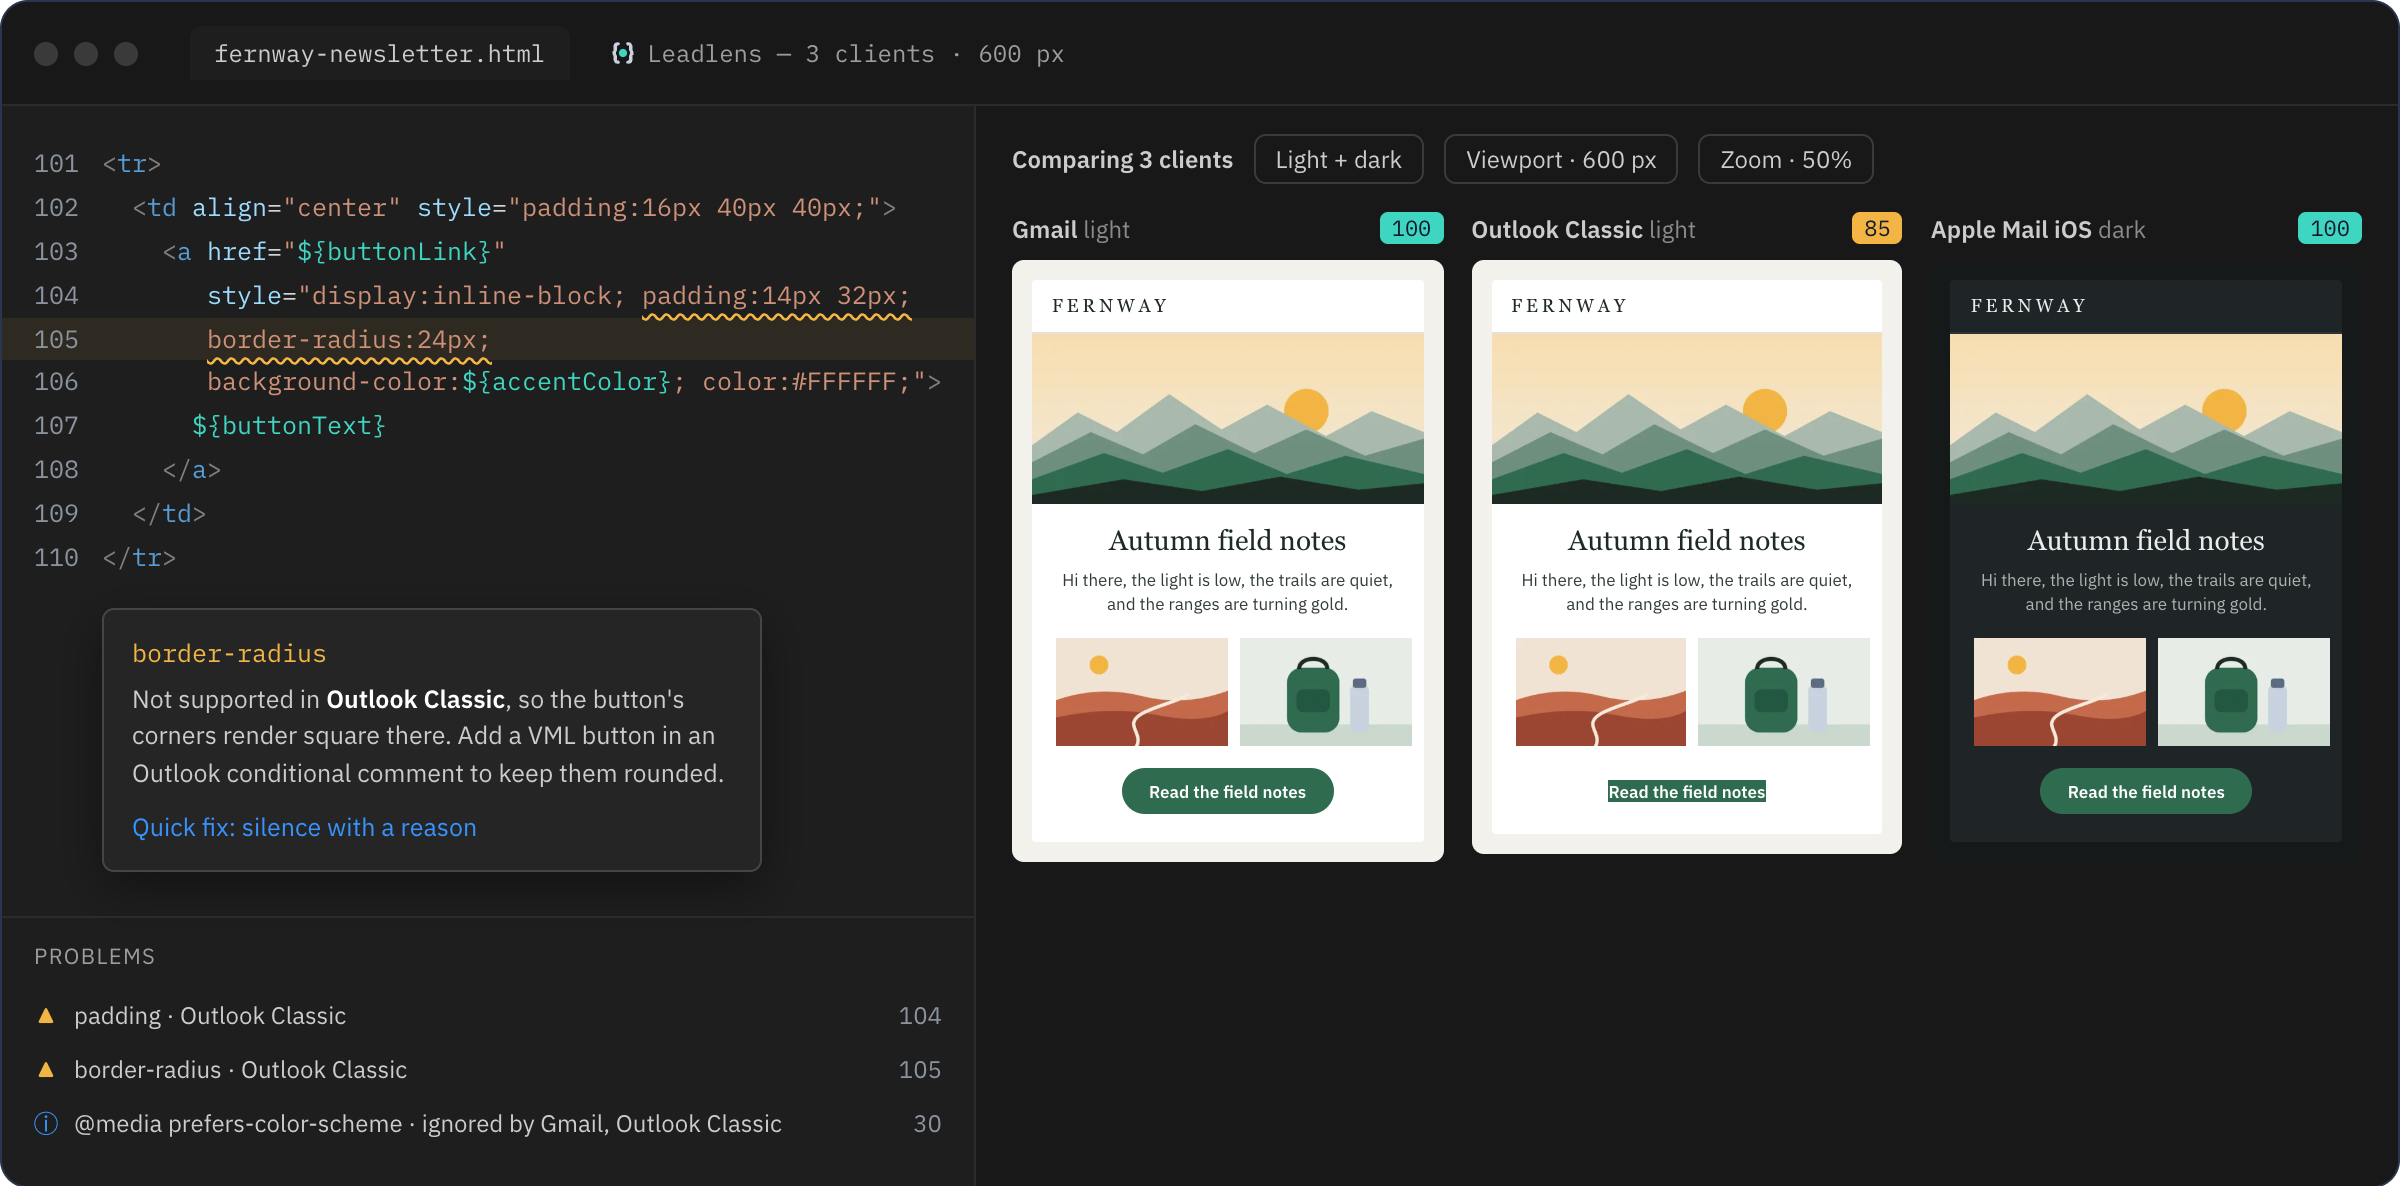
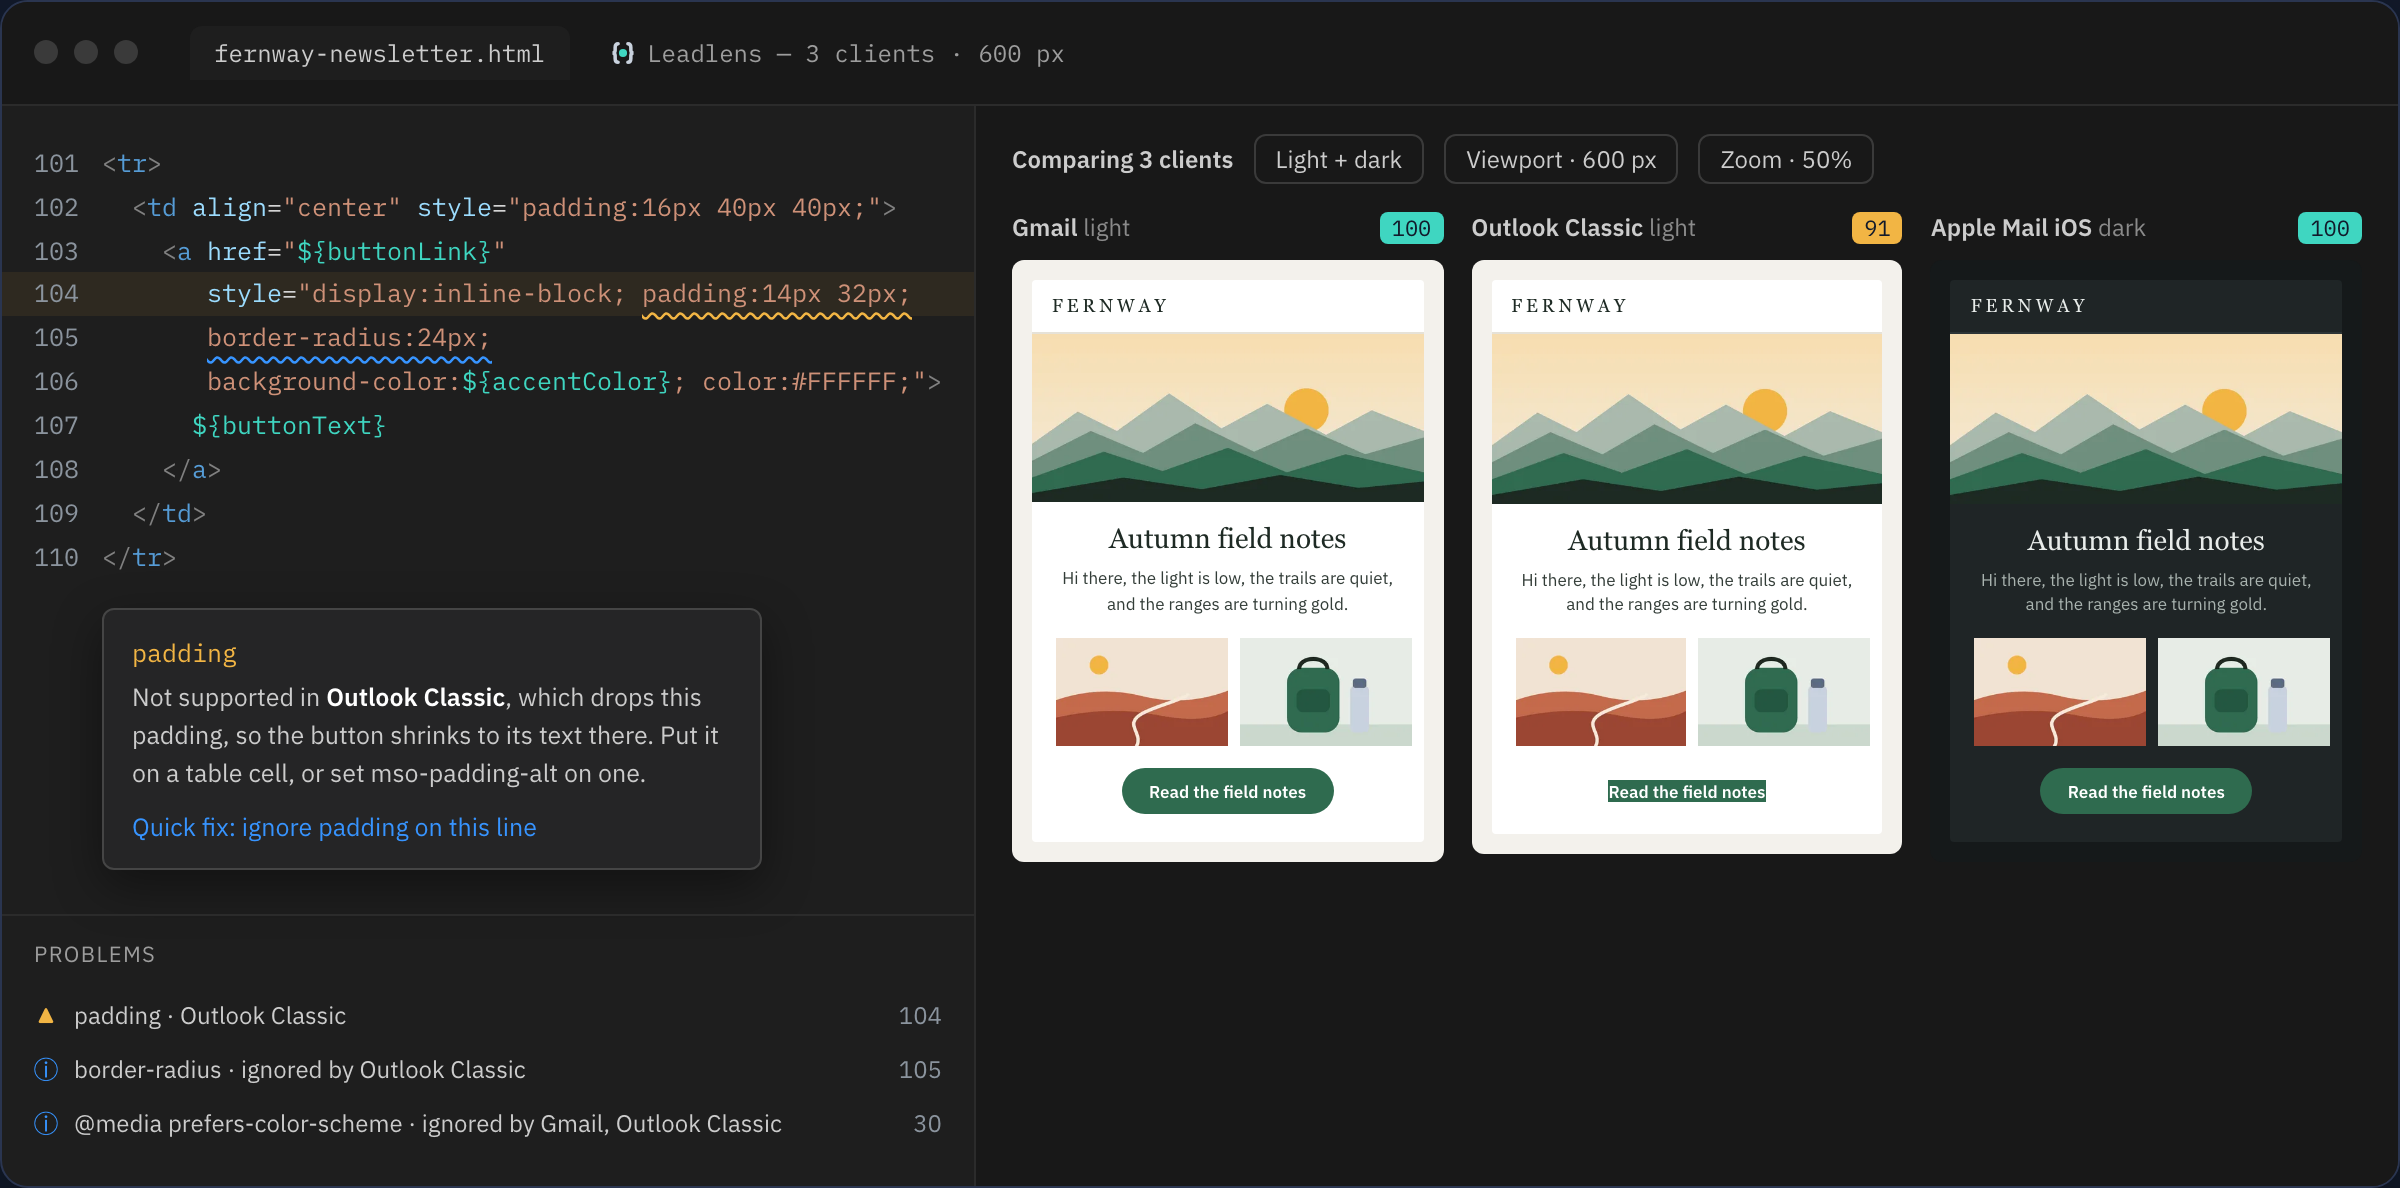
Lead the website and docs with Marketplace installation
The website's Install buttons and links go to the Visual Studio
Marketplace, with Open VSX and the VSIX download beside them. The
install steps, the update FAQ, a new FAQ for Cursor, VSCodium and
Windsurf, the changelog page, Getting started and Privacy and security
describe installing from the registries and automatic updates. The
structured data gains the Marketplace installUrl.

Engine 0.16.4 and later report an uncovered border-radius in Outlook
Classic as info and its dropped button padding as the warning, so the
product illustration, the README's header image and the demo GIF now
show padding as the problem, and the illustration's Outlook Classic
score is 91.

The website builds on Node 24: Astro 7.4 needs Node 22.23.4 or later,
newer than the runner's, so the Site workflow installs Node 24 and
`engines` asks Vercel for the same.

diff --git a/site/src/styles/site.css b/site/src/styles/site.css
@@ -420,6 +420,16 @@ code {
   color: var(--faint-dark);
 }
 
+.hero-alt {
+  margin-top: -6px;
+}
+
+.hero-note a {
+  color: inherit;
+  text-decoration: underline;
+  text-underline-offset: 2px;
+}
+
 @media (max-width: 560px) {
   .hero-copy {
     align-items: stretch;
@@ -530,6 +540,11 @@ code {
 
 .squiggle {
   text-decoration: underline wavy var(--warn);
+  text-underline-offset: 4px;
+}
+
+.squiggle-info {
+  text-decoration: underline wavy #3794ff;
   text-underline-offset: 4px;
 }
 
@@ -1476,6 +1491,12 @@ code {
   text-decoration: none;
   color: var(--text);
   font-size: 14px;
+}
+
+.pill-links {
+  display: flex;
+  flex-wrap: wrap;
+  gap: 8px;
 }
 
 .pill-link::before {

diff --git a/README.md b/README.md
@@ -7,7 +7,7 @@
 [![Emailens engine](https://img.shields.io/github/package-json/dependency-version/harrison-jennings/leadlens/@emailens/engine?label=emailens%20engine&labelColor=121A2B&color=0E8F80)](https://github.com/emailens/engine)
 [![Website](https://img.shields.io/badge/website-leadlens.harrisonjennings.au-0E8F80?labelColor=121A2B)](https://leadlens.harrisonjennings.au)
 
-![Leadlens in VS Code: a Marketo template with a border-radius warning for Outlook Classic and its explanation, beside the email previewed in Gmail, Outlook Classic with the button reduced to highlighted text, and Apple Mail iOS in dark mode](https://raw.githubusercontent.com/harrison-jennings/leadlens/main/docs/brand/leadlens-product.png)
+![Leadlens in VS Code: a Marketo template with a padding warning for Outlook Classic and its explanation, beside the email previewed in Gmail, Outlook Classic with the button reduced to highlighted text, and Apple Mail iOS in dark mode](https://raw.githubusercontent.com/harrison-jennings/leadlens/main/docs/brand/leadlens-product.png)
 
 Leadlens shows how your email will look across 21 email clients as you type, flags what will break before it ships, and understands Marketo Email Editor 2.0, including variables, modules, editable regions and tokens. You get answers about your actual template, not false alarms about Marketo syntax.
 
@@ -16,7 +16,7 @@ Leadlens shows how your email will look across 21 email clients as you type, fla
 - **Linting where you write**: problems appear in the editor, with explanations on hover and one-click fixes.
 - **Private by default**: everything runs locally, and remote images stay off until you allow them.
 
-![A Marketo template in VS Code with the Leadlens preview beside it. Typing border-radius into the call-to-action button rounds it in the Gmail preview, and Leadlens underlines it at once. The hover explains that Outlook Classic drops border-radius; switching the preview to Outlook Classic shows the button reduced to highlighted text, and the Quick Fix menu offers a VML fix for rounded buttons in Outlook](https://raw.githubusercontent.com/harrison-jennings/leadlens/main/docs/brand/leadlens-demo.gif)
+![A Marketo template in VS Code with the Leadlens preview beside it. Typing padding into the call-to-action button turns it from highlighted text into a full button in the Gmail preview, and Leadlens underlines it at once. The hover explains that Outlook Classic doesn't support the padding; switching the preview to Outlook Classic shows the button reduced to highlighted text again, and the Quick Fix menu offers a fix for button padding in Outlook](https://raw.githubusercontent.com/harrison-jennings/leadlens/main/docs/brand/leadlens-demo.gif)
 
 ## Install
 

diff --git a/docs/getting-started.md b/docs/getting-started.md
@@ -9,21 +9,31 @@ Install Leadlens, open your first preview and read your first findings.
 
 ## Install
 
-Leadlens is distributed as a VSIX package from the project's GitHub releases.
+Install Leadlens from the [Visual Studio Marketplace](https://marketplace.visualstudio.com/items?itemName=leadlens.leadlens): open the Extensions view in VS Code, search for **Leadlens** and choose **Install**. From a terminal:
+
+```sh
+code --install-extension leadlens.leadlens
+```
+
+Updates install automatically, each with the newest compatibility data from the Emailens engine.
+
+### Cursor, VSCodium and Windsurf
+
+These editors install extensions from [Open VSX](https://open-vsx.org/extension/leadlens/leadlens). Search for **Leadlens** in their Extensions view in the same way.
+
+### From a file
+
+To install without either registry, for example on a computer that can't reach them:
 
 1. Download `leadlens.vsix` from the [latest release](https://github.com/harrison-jennings/leadlens/releases/latest).
 2. In VS Code, open the Extensions view, choose **⋯ → Install from VSIX…** and select the file.
 3. Reload the window when prompted.
 
-From a terminal:
+From a terminal, run `code --install-extension leadlens.vsix`. To update an install from a file, install a newer download the same way. Every build has a higher version number than the one before it, so it replaces the installed version.
 
-```sh
-code --install-extension leadlens.vsix
-```
+### Going back to an earlier version
 
-To update, install the newer download the same way. Every build has a higher version number than the one before it, so it replaces the installed version.
-
-Every earlier build stays on the [releases page](https://github.com/harrison-jennings/leadlens/releases). To go back to one, download its `leadlens.vsix` and install it the same way; from a terminal, add `--force`, because the installed version is newer.
+Every earlier build stays on the [releases page](https://github.com/harrison-jennings/leadlens/releases). To go back to one, download its `leadlens.vsix` and install it the same way; from a terminal, add `--force`, because the installed version is newer. Then turn off **Auto Update** for Leadlens in the Extensions view, or VS Code will update it again.
 
 ## Your first preview
 

diff --git a/site/README.md b/site/README.md
@@ -41,6 +41,6 @@ Every page loads Vercel Web Analytics, which counts page views without cookies: 
 
 ## Deployment
 
-Vercel builds the `site` folder: the root directory is `site`, and Vercel detects Astro and Bun automatically. `vercel.json` skips a build when nothing the site uses has changed: the site itself, `docs/`, `CHANGELOG.md`, the sample images and the extension's `package.json` (which supplies the version and VS Code requirement shown on the download buttons). A commit with no parent, such as a repository's first, always builds. The Site workflow in `.github/workflows/site.yml` also builds the site on every pull request that touches it.
+Vercel builds the `site` folder: the root directory is `site`, and Vercel detects Astro and Bun automatically. Astro runs on Node.js; `engines` in `package.json` sets the major version for Vercel, and the Site workflow installs the same one, because Astro releases raise their minimum. `vercel.json` skips a build when nothing the site uses has changed: the site itself, `docs/`, `CHANGELOG.md`, the sample images and the extension's `package.json` (which supplies the version and VS Code requirement shown on the install buttons). A commit with no parent, such as a repository's first, always builds. The Site workflow in `.github/workflows/site.yml` also builds the site on every pull request that touches it.
 
 `vercel.json` also sets the security headers on every response: a content security policy that allows only the site's own scripts, styles, images, fonts and requests (inline scripts and WebAssembly are allowed because the docs theme and its search need them), `nosniff`, a referrer policy, a permissions policy that turns off device features, and no framing. Anything that loads from another origin, such as a new font or embed, has to be added to the policy, or the browser will block it.

diff --git a/docs/brand/README.md b/docs/brand/README.md
@@ -12,7 +12,7 @@ The Leadlens mark is a lens dot between token braces, `{ ● }`. It comes from M
 | `leadlens-lockup-dark.svg` / `.png` | Icon and wordmark for dark backgrounds. |
 | `leadlens-social.png` | GitHub's social preview card (1280 × 640). |
 | `leadlens-product.png` | The README's header image: the website's product illustration, rendered at 2× (2400 × 1188) with transparent corners. Re-render it if the illustration in `site/src/components/ProductShot.astro` changes. |
-| `leadlens-demo.gif` | The README's demonstration (1280 px wide, about 18 seconds), recorded from the packaged extension in VS Code. It uses `samples/marketo-newsletter.html` without the button's VML fallback: `border-radius` is typed into the call-to-action button, its warning is hovered, the preview switches from Gmail to Outlook Classic, and the Quick Fix menu opens. Record it again if the preview's layout changes noticeably. |
+| `leadlens-demo.gif` | The README's demonstration (1280 px wide, about 18 seconds), recorded from the packaged extension in VS Code. It uses `samples/marketo-newsletter.html` without the button's VML fallback: `padding` is typed into the call-to-action button, its warning is hovered, the preview switches from Gmail to Outlook Classic, and the Quick Fix menu opens. Record it again if the preview's layout changes noticeably. |
 | `../icon.png`, `../icon.svg` | The extension icon VS Code shows (256 px PNG). |
 | `../../media/preview-light.svg`, `../../media/preview-dark.svg` | The preview tab icon: the glyph without its tile, for light and dark themes. |
 

diff --git a/docs/privacy-and-security.md b/docs/privacy-and-security.md
@@ -7,6 +7,7 @@ Emails often contain tracking pixels, links with personal identifiers and conten
 - Leadlens has no telemetry and no accounts.
 - It makes no network requests of its own. All analysis and every preview runs locally.
 - It never connects to Marketo or any other email platform.
+- Installing it from the Visual Studio Marketplace or Open VSX is handled by your editor, which checks the registry for updates as it does for every extension.
 
 ## Previews are sandboxed
 
@@ -32,7 +33,7 @@ Compiling MJML runs the `mjml` package installed in your project, which is code 
 
 ## Verifying a download
 
-Every release is built by the project's GitHub Actions workflow, which signs a record of where the file came from: this repository, the exact commit, and the workflow that built it. To check that a downloaded `leadlens.vsix` is exactly what that workflow produced, run this with the [GitHub CLI](https://cli.github.com):
+Every release is built by the project's GitHub Actions workflow, which publishes the same package to GitHub, the Visual Studio Marketplace and Open VSX. It also signs a record of where the file came from: this repository, the exact commit, and the workflow that built it. To check that a downloaded `leadlens.vsix` is exactly what that workflow produced, run this with the [GitHub CLI](https://cli.github.com):
 
 ```sh
 gh attestation verify leadlens.vsix --repo harrison-jennings/leadlens
